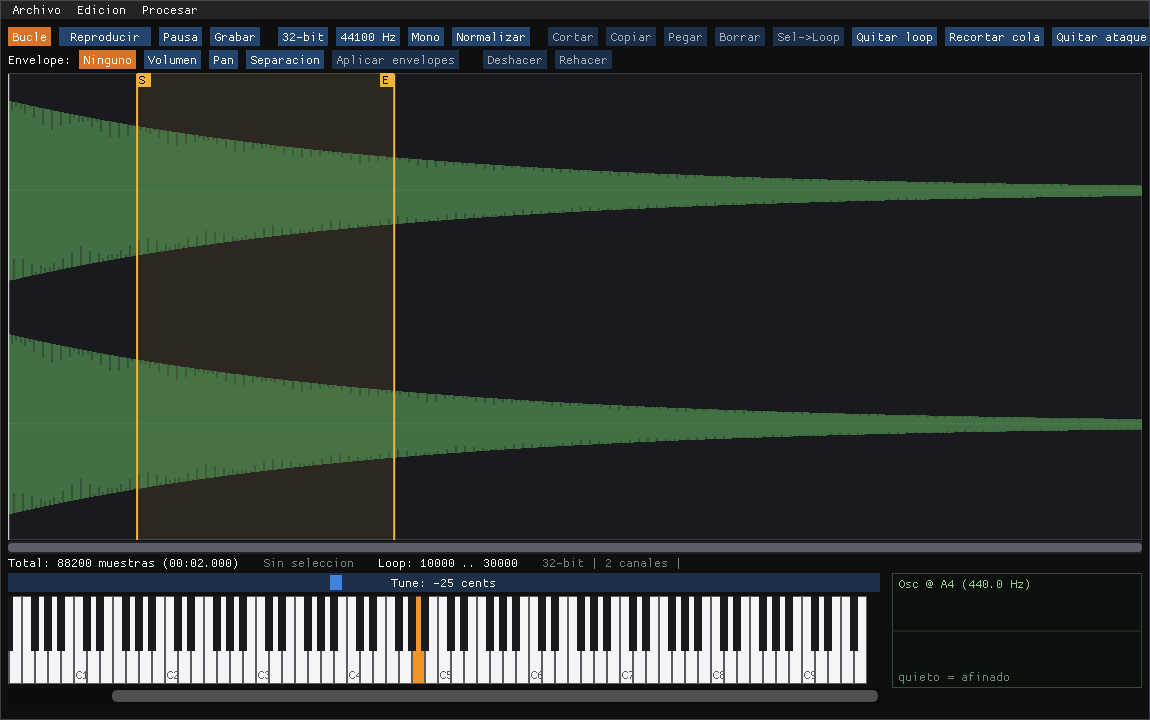
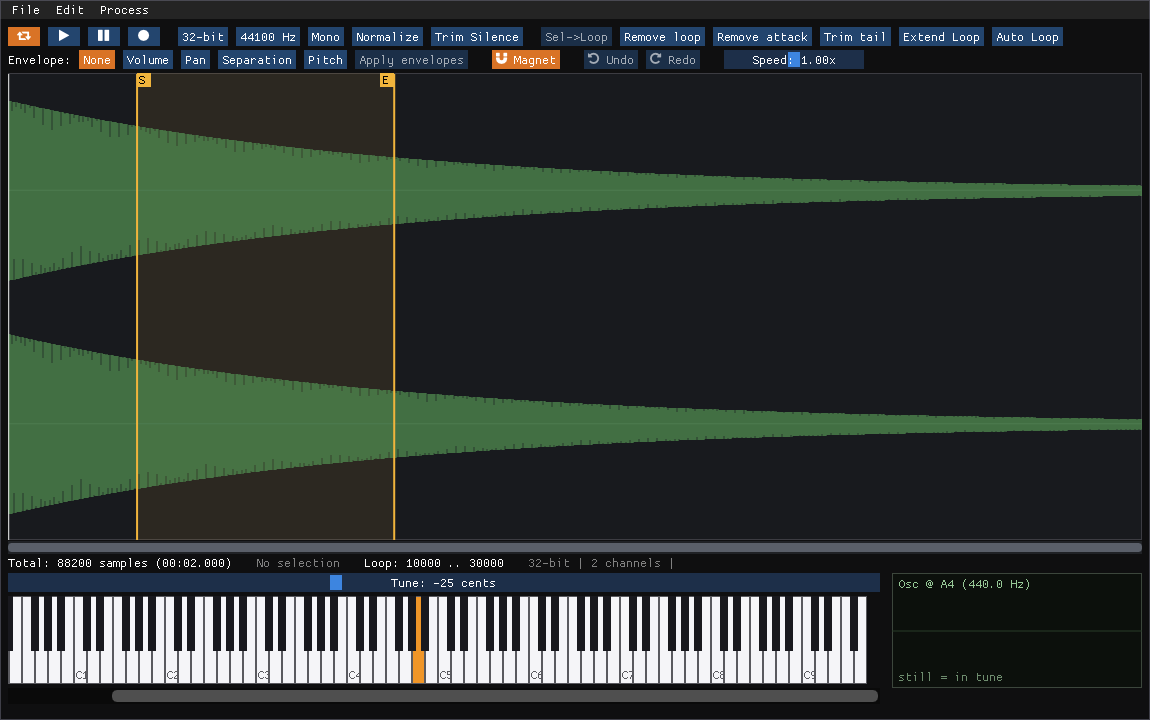
updated README

diff --git a/src/plugin.cpp b/src/plugin.cpp
@@ -49,7 +49,7 @@ const clap_plugin_descriptor_t kDesc = {
     .url = "https://github.com/michael02022/NeoLooper",
     .manual_url = "",
     .support_url = "",
-    .version = "0.1.0",
+    .version = "1.0.0",
     .description = "Audio editor for looping samples, Edison-inspired. "
                    "Record, edit, mark loops with crossfades, import "
                    "WAV/AIFF/FLAC/OGG/MP3, and export WAV+smpl.",

diff --git a/README.md b/README.md
@@ -1,65 +1,83 @@
 # NeoLooper
 
-A sample-looping audio editor inspired by Edison (Image-Line), built as a
-native **CLAP** FX plugin with a **Dear ImGui** UI (X11/OpenGL on Linux,
-Win32/WGL on Windows) — no JUCE. Everything lives in RAM; edits are
-non-destructive until you hit Apply.
+A sample-looping audio editor as a CLAP plugin. It can also be used as a sound design tool.
+Available on Linux and Windows (macOS is under consideration).
+
+Tested on Reaper (Linux X11 and Windows); feedback is welcome.
 
 ![screenshot](docs/screenshot.png)
 
 ## Features
 
-- **Transport**: Play/Stop (space bar), Pause, Record (appends to the end of
-  the loaded audio, adapting channels/sample rate). With a selection, Play
-  starts and stops at its bounds; with a marked loop and no selection, it
-  plays from the true start of the sample and the loop still governs where
-  playback stops/wraps.
-- **Load/Export**: WAV / AIFF / FLAC / OGG / MP3 (import only, no loop/root-
-  note metadata) via drag & drop or the file browser. Export writes a WAV
-  with an embedded `smpl` chunk (loop points, root note, finetune) at
-  16-bit, 24-bit, or 32-bit float, auto-scaling the whole file (never
-  clipping) if the chosen depth can't represent the peak.
-- **16/32-bit editing** (Edison-style): edits quantize to the 16-bit grid,
-  auto-promoting to 32-bit if an edit would clip. Manual 32→16 toggle scales
-  the whole sample down instead of clipping it.
-- Sample rate change (simple or high-quality sinc resample), stereo→mono,
-  normalize, cut/copy/paste/delete, trim tail / remove attack, undo/redo,
-  and DAW project state save/restore.
-- **Waveform view** with scroll-wheel zoom, sample-accurate selection, and
-  draggable loop markers (Edison-style drag behavior).
-- **Auto Loop**: a menu of pluggable algorithms that find a repeatable
-  region and place the loop points automatically, searching the selection
-  (or the whole sample if there's none):
-  - [milselarch/autolooper](https://github.com/milselarch/autolooper)
-  - [GrandOrgue/LoopAuditioneer](https://github.com/GrandOrgue/LoopAuditioneer) (Lars Palo)
-- **Volume/Pan/Separation envelopes**, audible live before being printed to
-  the sample.
-- **128-key piano** (assign root note, audition relative pitch) with a
-  ±99-cent finetune slider, plus a tuning oscilloscope.
-- **High-quality real-time playback**: a 16-tap sinc (Kaiser window)
-  interpolator, wrapped correctly across loop boundaries.
+* Record from the DAW or import your sample in WAV, AIFF/AIF, FLAC, OGG and MP3 formats, from 16-bit and 24-bit up to 32-bit float.
+* The edited sample is loaded in RAM. No disk is involved.
+* Real-time preview.
+* Piano included to test the sample in a sampler use case. Right-click to set the root note of the sample.
+* Slider to set the tune of the sample.
+* Oscilloscope view to tune by eye instead of by ear; click to switch to spectrum view to see the frequencies.
+* Recognizes MIDI root note, loop points and tune from supported formats (WAV/AIFF/FLAC).
+* Supports OGG loop tags (LOOPSTART, LOOPLENGTH/LOOPEND) import and export.
+* Supports "foreign data" chunks from FLAC at import and export.
+* Envelope manipulation for Amplitude, Pan, Stereo and Pitch.
+* Change sample rate, resample or even embed the tune in the sample rate of the sample.
+* Buttons to normalize, trim silence, remove attack/tail of the sample, and extend the loop.
+* Change the speed of the playback with a slider (useful if you want to loop songs).
 
-### Process menu
+### Autoloop
 
-Each entry opens its own window with a live, non-destructive preview;
-nothing is written to the document until you hit Apply.
+Features an autoloop button that searches for possible loop points inside the sample. It includes two methods. Make a selection before running autoloop so it searches only within that zone. Useful for repeated waveforms like winds or synths.
 
-- **Loop modules** — one file per loop type, each doing time-domain
-  crossfade work to make a marked loop repeat seamlessly:
-  Classic Crossfade (+ Inside variant), Ping Pong Crossfade (+ Inside),
-  Ping Pong Classic (historically-accurate ping-pong construction),
-  Harmonic, Ping Pong Harmonic, Freeze, FreezeStretch (ambiance texture via
-  Signalsmith Stretch pushed past its clean-stretch range), Rotation,
-  Granular.
-- **Filter**: resonant high-pass + bell band over the real spectrum.
-- **Amplitude**: plain gain in dB, with an optional hard clip.
-- **Pitch**: built-in (resample or phase-vocoder),
-  [Signalsmith](https://signalsmith-audio.co.uk/code/stretch/) (tonality
-  limit + formant preservation), or Loris (additive sinusoidal-partial
-  resynthesis — best timbre preservation for monophonic, quasi-harmonic
-  material).
-- **Stretch**: built-in phase vocoder,
-  [Rubber Band](https://breakfastquay.com/rubberband/), or Signalsmith.
+### Process
+
+You can process the sample with these methods:
+
+* Reverse: reverse the sample/selected zone.
+* Filter: A high pass filter to remove low frequencies/DC offset and a band filter to enhance high frequencies.
+* Amplitude: Modify the amplitude of the sample.
+
+### Pitch
+Modify the pitch of the sample/selected zone.
+
+* A built-in pitch changer that resamples or keeps the speed (a basic/inaccurate stretch implementation)
+* A Signalsmith pitch changer implementation.
+* A Loris Synthesis implementation.
+
+### Stretch
+Modify the speed of the sample/selected zone.
+
+* A built-in basic/inaccurate stretch implementation
+* A Rubber Band Library implementation.
+* A Signalsmith Stretch implementation.
+
+### Loop
+The most important section of the plugin. Compiles every looping method possible.
+
+#### Classic Crossfade + (Inside)
+The typical crossfade forward loop with an "Inside" variation. The difference between non-inside and inside is where it takes the crossfade portion (outside of the loop points or inside the loop points).
+
+#### Ping Pong Classic
+The first time this has been implemented in an audio loop editor. This is a special method used by old samplers/romplers from Roland and other obscure gear. Essentially, it's a loop that's designed to be played back in a ping-pong fashion, so the loop sounds much longer while only storing half the sample's loop information. The plugin automatically mirrors the loop to make it compatible with forward looping.
+
+#### Ping Pong Crossfade + Inside
+It's similar to Classic but this one creates a Crossfade after creating the mirror. This is obviously only compatible with forward looping.
+
+#### Harmonic
+It tries to keep the harmonics of the sample and create a seamless loop with them. Useful for Piano/keyboards with complex harmonic information. Change the FFT window size to get better/experimental results.
+
+#### Ping Pong Harmonic
+It uses the same algorithm to create a mirror of the same played frequencies (it's not a literal reverse effect of the sample). This is useful for solo strings and similar instruments/sounds. Easier than crossfade for this use case. Experiment with the FFT window size.
+
+#### Freeze
+As the name suggests, it "freezes" the frequencies to create a 1-cycle loop average of a specific position of the sample. It makes the process easier but with a small tune inconsistency due to the nature of the method. This can be improved by tuning the attack of the sample (Process -> Pitch) to match the tune of the loop. Experiment with the FFT window size. This is the easiest and most accurate approach for small/micro samples on cheap/low-memory gear from the 90s (SNES, Roland S-550, AKAI S2000, ...).
+
+#### Freeze Stretch
+This one uses Signalsmith with the lowest value of stretching to create an ethereal effect on the sample. Added for experimental sound design.
+
+#### Rotation
+This one takes a pre-looped sample (the loop must be free of clicks) and creates layers of the same loop while changing the offset of each layer (the rotation effect). It can have from 2 to 100 layers and a generation seed.
+
+#### Granular
+Based on a Python script made by peastman in a VI-Control thread. It can extend a short sample (for example, staccato ones) and create a long loop with it.
 
 ## Build (Linux)
 
@@ -151,23 +169,6 @@ build\mini_host.exe build\NeoLooper.clap gui
 Also verified end-to-end inside REAPER on Windows: plugin scan/insert,
 opening/closing the editor, importing WAV/MP3, and recording/loop
 processing from the DAW.
-
-## Project layout
-
-```text
-src/
-  audio_data.hpp        planar float32 PCM in RAM + 16/32-bit semantics + peak pyramid
-  document.{hpp,cpp}    editing, undo/redo, clipboard, envelopes, markers
-  engine.{hpp,cpp}      audio thread: pitched playback (sinc16), recording, scope
-  shared.hpp            lock-free GUI -> audio thread parameter snapshots
-  resampler.{hpp,cpp}   offline high-quality sinc resampler
-  sinc_interp.hpp       16-tap sinc interpolator for RT playback
-  wav_io.{hpp,cpp}      libsndfile (WAV/AIFF/FLAC/OGG) + dr_mp3 (MP3) loading, WAV writer with smpl chunk
-  plugin.cpp            CLAP glue (entry, ports, state, gui)
-  gui/                  platform window (X11/GLX or Win32/WGL), toolbar/piano/scope, waveform view, file dialog
-  loopmods/             one file per loop-processing module
-  procmods/             one file per non-loop processor (Filter, Pitch, Stretch, ...)
-```
 
 ## Status
 
